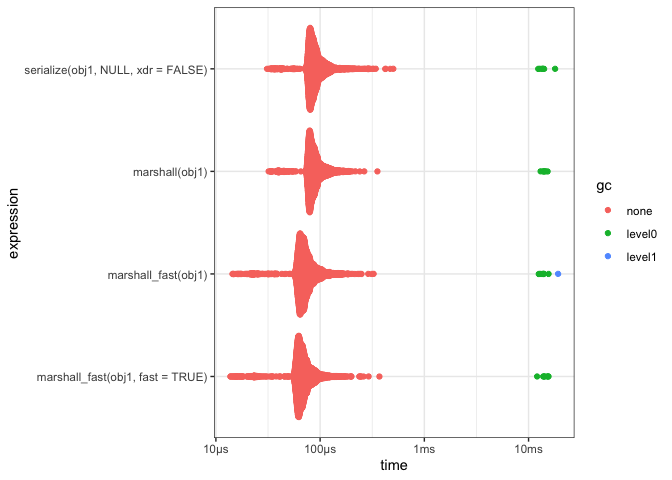
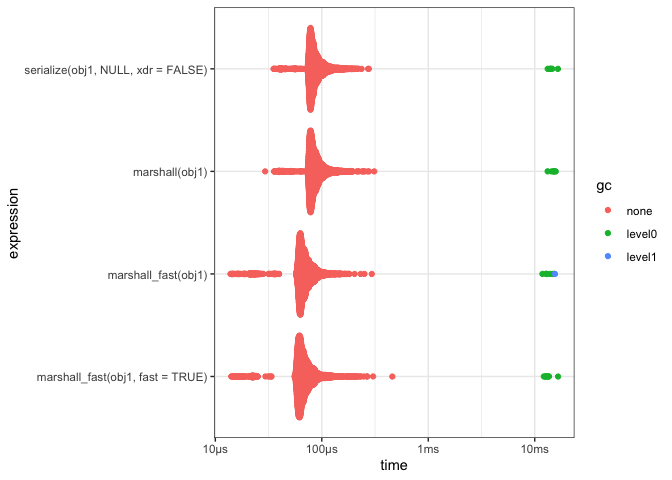
separate static/dynamic buffere implementations

diff --git a/src/buffer-static.c b/src/buffer-static.c
@@ -9,14 +9,14 @@
 #include <stdlib.h>
 #include <unistd.h>
 
-#include "buffer-dynamic.h"
+#include "buffer-static.h"
 
 
 //~~~~~~~~~~~~~~~~~~~~~~~~~~~~~~~~~~~~~~~~~~~~~~~~~~~~~~~~~~~~~~~~~~~~~~~~~~~~
 // Initialise an empty buffer to hold 'nbytes'
 //~~~~~~~~~~~~~~~~~~~~~~~~~~~~~~~~~~~~~~~~~~~~~~~~~~~~~~~~~~~~~~~~~~~~~~~~~~~~
-dynamic_buffer_t *init_static_buffer(int nbytes, unsigned char *data) {
-  dynamic_buffer_t *buf = (dynamic_buffer_t *)malloc(sizeof(dynamic_buffer_t));
+static_buffer_t *init_static_buffer(int nbytes, unsigned char *data) {
+  static_buffer_t *buf = (static_buffer_t *)malloc(sizeof(static_buffer_t));
   if (buf == NULL) {
     error("init_buffer(): cannot malloc buffer");
   }
@@ -38,7 +38,7 @@ dynamic_buffer_t *init_static_buffer(int nbytes, unsigned char *data) {
 // have to extract it first
 //~~~~~~~~~~~~~~~~~~~~~~~~~~~~~~~~~~~~~~~~~~~~~~~~~~~~~~~~~~~~~~~~~~~~~~~~~~~~
 void write_byte_to_static_buffer(R_outpstream_t stream, int c) {
-  dynamic_buffer_t *buf = (dynamic_buffer_t *)stream->data;
+  static_buffer_t *buf = (static_buffer_t *)stream->data;
 
   // Expand the buffer if it's out space
   while (buf->pos >= buf->length) {
@@ -56,7 +56,7 @@ void write_byte_to_static_buffer(R_outpstream_t stream, int c) {
 // have to extract it first
 //~~~~~~~~~~~~~~~~~~~~~~~~~~~~~~~~~~~~~~~~~~~~~~~~~~~~~~~~~~~~~~~~~~~~~~~~~~~~
 void write_bytes_to_static_buffer(R_outpstream_t stream, void *src, int length) {
-  dynamic_buffer_t *buf = (dynamic_buffer_t *)stream->data;
+  static_buffer_t *buf = (static_buffer_t *)stream->data;
 
   // Expand the buffer if it's out space
   while (buf->pos + length > buf->length) {
@@ -69,3 +69,32 @@ void write_bytes_to_static_buffer(R_outpstream_t stream, void *src, int length) 
 }
 
 
+//~~~~~~~~~~~~~~~~~~~~~~~~~~~~~~~~~~~~~~~~~~~~~~~~~~~~~~~~~~~~~~~~~~~~~~~~~~~~
+// Read a byte from the serialized stream
+//~~~~~~~~~~~~~~~~~~~~~~~~~~~~~~~~~~~~~~~~~~~~~~~~~~~~~~~~~~~~~~~~~~~~~~~~~~~~
+int read_byte_from_static_buffer(R_inpstream_t stream) {
+  static_buffer_t *buf = (static_buffer_t *)stream->data;
+
+  if (buf->pos >= buf->length) {
+    error("read_byte(): overflow");
+  }
+
+  return buf->data[buf->pos++];
+}
+
+
+
+//~~~~~~~~~~~~~~~~~~~~~~~~~~~~~~~~~~~~~~~~~~~~~~~~~~~~~~~~~~~~~~~~~~~~~~~~~~~~
+// Read multiple bytes from the serialized stream
+//~~~~~~~~~~~~~~~~~~~~~~~~~~~~~~~~~~~~~~~~~~~~~~~~~~~~~~~~~~~~~~~~~~~~~~~~~~~~
+void read_bytes_from_static_buffer(R_inpstream_t stream, void *dst, int length) {
+  static_buffer_t *buf = (static_buffer_t *)stream->data;
+
+  if (buf->pos + length > buf->length) {
+    error("read_bytes(): overflow");
+  }
+
+  memcpy(dst, buf->data + buf->pos, length);
+
+  buf->pos += length;
+}

diff --git a/src/serialize.c b/src/serialize.c
@@ -70,7 +70,7 @@ SEXP unmarshall_(SEXP vec_) {
   R_xlen_t len = XLENGTH(vec_);
 
   // Create a buffer object which points to the raw data
-  dynamic_buffer_t *buf = malloc(sizeof(dynamic_buffer_t));
+  static_buffer_t *buf = malloc(sizeof(static_buffer_t));
   if (buf == NULL) {
     error("'buf' malloc failed!");
   }
@@ -82,13 +82,13 @@ SEXP unmarshall_(SEXP vec_) {
   struct R_inpstream_st input_stream;
 
   R_InitInPStream(
-    &input_stream,           // Stream object wrapping data buffer
-    (R_pstream_data_t) buf,  // Actual data buffer
-    R_pstream_any_format,    // Unpack all serialized types
-    read_byte,               // Function to read single byte from buffer
-    read_bytes,              // Function for reading multiple bytes from buffer
-    NULL,                    // Func for special handling of reference data.
-    NULL                     // Data related to reference data handling
+    &input_stream,                 // Stream object wrapping data buffer
+    (R_pstream_data_t) buf,        // Actual data buffer
+    R_pstream_any_format,          // Unpack all serialized types
+    read_byte_from_static_buffer,  // Function to read single byte from buffer
+    read_bytes_from_static_buffer, // Function for reading multiple bytes from buffer
+    NULL,                          // Func for special handling of reference data.
+    NULL                           // Data related to reference data handling
   );
 
   // Unserialize the input_stream into an R object
@@ -119,7 +119,7 @@ SEXP marshall_fast_(SEXP robj, SEXP fast_) {
 
   // Allocate an exact-sized R RAW vector to hold the result
   SEXP res_ = PROTECT(allocVector(RAWSXP, total_size));
-  dynamic_buffer_t *buf = init_static_buffer(total_size, RAW(res_));
+  static_buffer_t *buf = init_static_buffer(total_size, RAW(res_));
 
   // Create the output stream structure
   struct R_outpstream_st output_stream;

diff --git a/src/buffer-static.h b/src/buffer-static.h
@@ -1,5 +1,16 @@
 
+//~~~~~~~~~~~~~~~~~~~~~~~~~~~~~~~~~~~~~~~~~~~~~~~~~~~~~~~~~~~~~~~~~~~~~~~~~~~~
+// The data buffer.
+// Needs total length and pos to keep track of how much data it contains
+//~~~~~~~~~~~~~~~~~~~~~~~~~~~~~~~~~~~~~~~~~~~~~~~~~~~~~~~~~~~~~~~~~~~~~~~~~~~~
+typedef struct {
+  R_xlen_t length;
+  R_xlen_t pos;
+  unsigned char *data;
+} static_buffer_t;
 
-dynamic_buffer_t *init_static_buffer(int nbytes, unsigned char *data);
+static_buffer_t *init_static_buffer(int nbytes, unsigned char *data);
 void write_byte_to_static_buffer(R_outpstream_t stream, int c);
 void write_bytes_to_static_buffer(R_outpstream_t stream, void *src, int length);
+int read_byte_from_static_buffer(R_inpstream_t stream);
+void read_bytes_from_static_buffer(R_inpstream_t stream, void *dst, int length);

diff --git a/README.md b/README.md
@@ -27,16 +27,16 @@ use
 
 ## What’s in the box
 
-  - `marshall()`/`unmarshall()` are direct analogues for
+-   `marshall()`/`unmarshall()` are direct analogues for
     `base::serialize()` and `base::unserialize()`
-  - `calc_size_robust()` calculates the exact size of the serialized
+-   `calc_size_robust()` calculates the exact size of the serialized
     representation of an object using R’s seriazliation infrastructure
     but not actually allocating any bytes.
-  - `calc_size_fast()` a bespoke calculation of the exact size of the
+-   `calc_size_fast()` a bespoke calculation of the exact size of the
     serialized representation. This does *not* use R’s internals, and
     does not deal with 100% of all possible objects - e.g. some less
     common language/compilation objects.
-  - `marshall_fast()` is a modified version of `marshall()` which
+-   `marshall_fast()` is a modified version of `marshall()` which
     minimises memory allocations by pre-calculating the final size of
     the serialized representation. It speeds up the serialization
     process for larger objects.
@@ -53,14 +53,14 @@ remotes::install_github('coolbutuseless/serializer')
 
 ## Notes
 
-  - Using R’s serialization infrastructure from C involves 2 main parts:
-      - a buffer (which could be memory, a file, a pipe, etc) with
+-   Using R’s serialization infrastructure from C involves 2 main parts:
+    -   a buffer (which could be memory, a file, a pipe, etc) with
         accompanying functions for reading and writing bytes to/from the
         buffer
-      - input/output stream wrappers around this buffer initialised and
+    -   input/output stream wrappers around this buffer initialised and
         created using R internals
-          - Input stream: `R_inpstream_st`, `R_InitInPStream()`
-          - Output stream: `R_outpstream_st`, `R_InitOutPStream()`
+        -   Input stream: `R_inpstream_st`, `R_InitInPStream()`
+        -   Output stream: `R_outpstream_st`, `R_InitOutPStream()`
 
 ## Example
 
@@ -92,7 +92,7 @@ identical(v1, v2)
 length(v1)
 #> [1] 674
 head(v1, 200)
-#>   [1] 42 0a 03 00 00 00 02 00 04 00 00 05 03 00 05 00 00 00 55 54 46 2d 38 13 03
+#>   [1] 42 0a 03 00 00 00 04 00 04 00 00 05 03 00 05 00 00 00 55 54 46 2d 38 13 03
 #>  [26] 00 00 0b 00 00 00 0e 00 00 00 03 00 00 00 00 00 00 00 00 00 35 40 00 00 00
 #>  [51] 00 00 00 35 40 cd cc cc cc cc cc 36 40 0e 00 00 00 03 00 00 00 00 00 00 00
 #>  [76] 00 00 18 40 00 00 00 00 00 00 18 40 00 00 00 00 00 00 10 40 0e 00 00 00 03
@@ -126,7 +126,6 @@ just passing *pointers* + *lengths* to an output stream, and doing very
 very little actual memory allocation or copying.
 
 ``` r
-
 #~~~~~~~~~~~~~~~~~~~~~~~~~~~~~~~~~~~~~~~~~~~~~~~~~~~~~~~~~~~~~~~~~~~~~~~~~~~~~
 # Test objects
 #~~~~~~~~~~~~~~~~~~~~~~~~~~~~~~~~~~~~~~~~~~~~~~~~~~~~~~~~~~~~~~~~~~~~~~~~~~~~~
@@ -172,11 +171,11 @@ res %>%
 ```
 
 | expression               |  median | itr/sec |  MB |   GB/s |
-| :----------------------- | ------: | ------: | --: | -----: |
-| calc\_size\_robust(obj1) | 11.22µs |   84772 | 114 | 9920.5 |
-| calc\_size\_robust(obj2) |  6.36µs |  152199 |   5 |  768.0 |
-| calc\_size\_robust(obj3) |  5.73µs |  147488 |  38 | 6476.3 |
-| calc\_size\_robust(obj4) |   2.7µs |  266598 |   0 |    0.0 |
+|:-------------------------|--------:|--------:|----:|-------:|
+| calc\_size\_robust(obj1) | 11.34µs |   86362 | 114 | 9818.2 |
+| calc\_size\_robust(obj2) |  6.63µs |  146837 |   5 |  735.9 |
+| calc\_size\_robust(obj3) |  7.55µs |  128345 |  38 | 4917.8 |
+| calc\_size\_robust(obj4) |  4.25µs |  243749 |   0 |    0.0 |
 
 Maximum possible throughput of serialization
 
@@ -211,14 +210,13 @@ res %>%
 ```
 
 | expression                         | median |  itr/sec |
-| :--------------------------------- | -----: | -------: |
-| serialize(obj1, NULL, xdr = FALSE) | 86.3µs | 10830.04 |
-| marshall(obj1)                     | 85.2µs | 11088.24 |
-| marshall\_fast(obj1)               |   70µs | 13367.15 |
-| marshall\_fast(obj1, fast = TRUE)  | 66.9µs | 14144.99 |
+|:-----------------------------------|-------:|---------:|
+| serialize(obj1, NULL, xdr = FALSE) | 83.4µs | 11225.06 |
+| marshall(obj1)                     | 83.6µs | 11314.54 |
+| marshall\_fast(obj1)               | 67.5µs | 14104.79 |
+| marshall\_fast(obj1, fast = TRUE)  | 65.9µs | 14223.46 |
 
 ``` r
-
 plot(res) + theme_bw()
 ```
 
@@ -246,14 +244,13 @@ res %>%
 ```
 
 | expression                         |  median |   itr/sec |
-| :--------------------------------- | ------: | --------: |
-| serialize(obj2, NULL, xdr = FALSE) | 11.57ms |  78.82972 |
-| marshall(obj2)                     | 13.51ms |  72.36631 |
-| marshall\_fast(obj2)               |  2.22ms | 406.65879 |
-| marshall\_fast(obj2, fast = TRUE)  |  2.32ms | 393.54028 |
+|:-----------------------------------|--------:|----------:|
+| serialize(obj2, NULL, xdr = FALSE) | 14.26ms |  63.47105 |
+| marshall(obj2)                     | 10.23ms |  89.25752 |
+| marshall\_fast(obj2)               |  2.18ms | 299.09430 |
+| marshall\_fast(obj2, fast = TRUE)  |  2.27ms | 255.40400 |
 
 ``` r
-
 plot(res) + theme_bw()
 ```
 
@@ -263,7 +260,7 @@ plot(res) + theme_bw()
 
 ``` r
 #~~~~~~~~~~~~~~~~~~~~~~~~~~~~~~~~~~~~~~~~~~~~~~~~~~~~~~~~~~~~~~~~~~~~~~~~~~~~~
-# data.frame with 1e6 rows
+# data.frame with 32000 rows
 #~~~~~~~~~~~~~~~~~~~~~~~~~~~~~~~~~~~~~~~~~~~~~~~~~~~~~~~~~~~~~~~~~~~~~~~~~~~~~
 obj2 <- do.call(rbind, replicate(1000, mtcars, simplify = FALSE))
 
@@ -281,14 +278,13 @@ res %>%
 ```
 
 | expression                         | median |  itr/sec |
-| :--------------------------------- | -----: | -------: |
-| serialize(obj2, NULL, xdr = FALSE) | 4.39ms | 212.6027 |
-| marshall(obj2)                     |  4.4ms | 217.1872 |
-| marshall\_fast(obj2)               | 4.67ms | 222.6453 |
-| marshall\_fast(obj2, fast = TRUE)  | 3.51ms | 291.4762 |
+|:-----------------------------------|-------:|---------:|
+| serialize(obj2, NULL, xdr = FALSE) | 4.74ms | 199.2223 |
+| marshall(obj2)                     | 4.45ms | 203.2792 |
+| marshall\_fast(obj2)               | 4.69ms | 211.3990 |
+| marshall\_fast(obj2, fast = TRUE)  | 3.61ms | 280.5693 |
 
 ``` r
-
 plot(res) + theme_bw()
 ```
 
@@ -296,12 +292,12 @@ plot(res) + theme_bw()
 
 ## Related Software
 
-  - [RApiSerialize](https://cran.r-project.org/web/packages/RApiSerialize/index.html)
-  - [qs](https://cran.r-project.org/web/packages/qs/index.html)
-  - [fst](https://cran.r-project.org/web/packages/fst/index.html)
+-   [RApiSerialize](https://cran.r-project.org/web/packages/RApiSerialize/index.html)
+-   [qs](https://cran.r-project.org/web/packages/qs/index.html)
+-   [fst](https://cran.r-project.org/web/packages/fst/index.html)
 
 ## Acknowledgements
 
-  - R Core for developing and maintaining the language.
-  - CRAN maintainers, for patiently shepherding packages onto CRAN and
+-   R Core for developing and maintaining the language.
+-   CRAN maintainers, for patiently shepherding packages onto CRAN and
     maintaining the repository

diff --git a/NEWS.md b/NEWS.md
@@ -1,3 +1,7 @@
+# serializer 0.1.5   2021-04-11
+
+* More orthogonality in the dynamic and static buffer techniques
+
 # serializer 0.1.4   2020-09-24
 
 * Rename: `calc_marshalled_size()` -> `calc_size_robust()`
